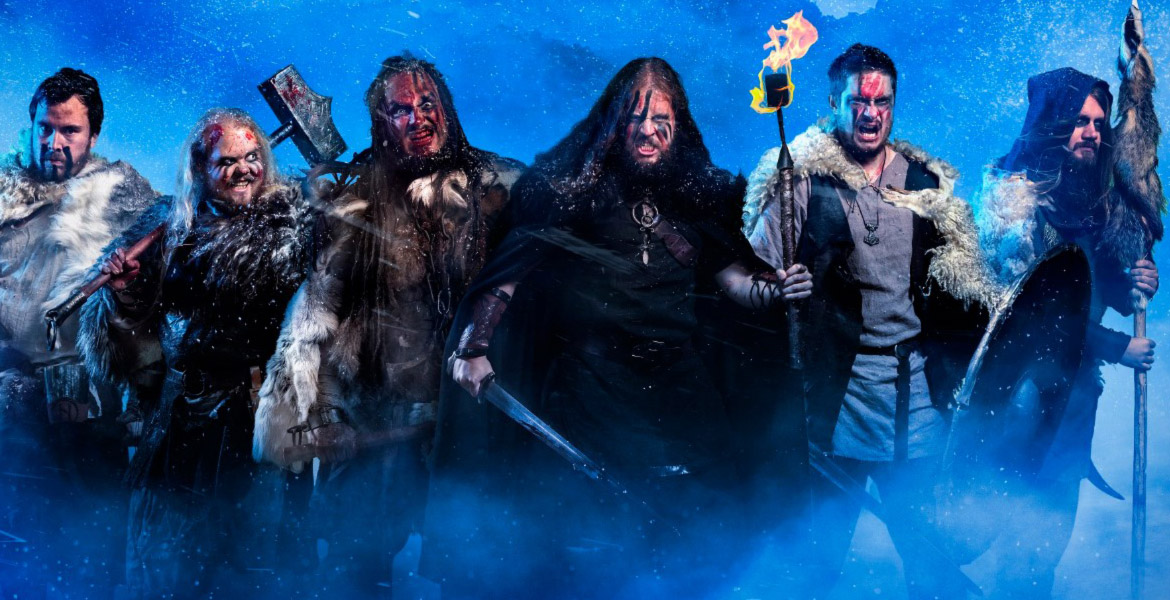
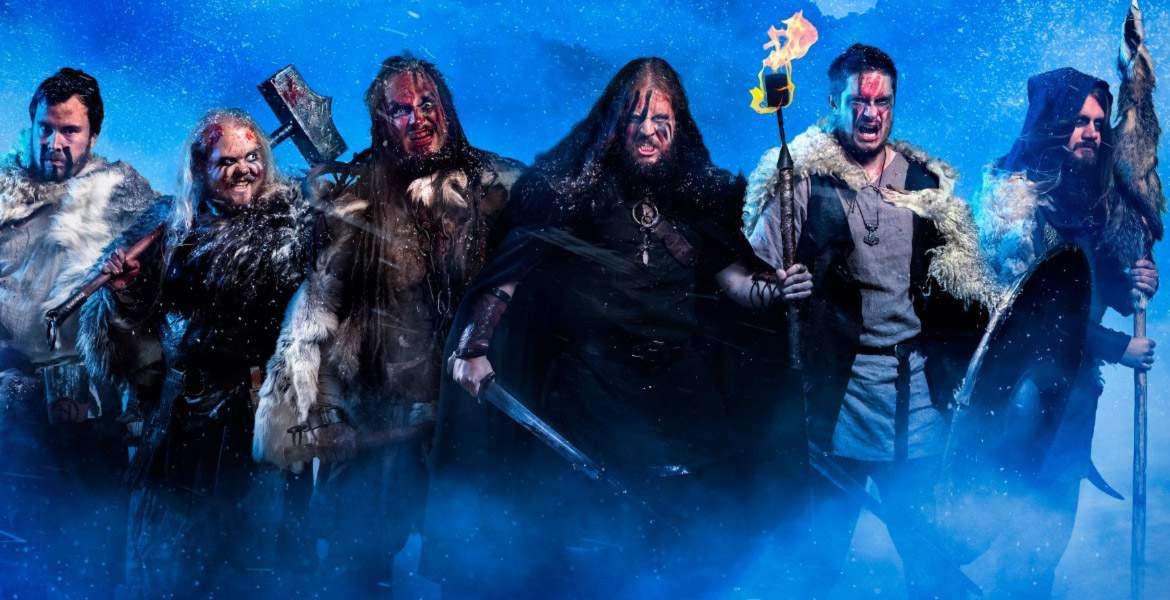
adjust amount in cart function

Changed region(s): [[0.6154, 0.03, 0.7077, 0.21], [0.2769, 0.27, 0.3077, 0.33], [0.2154, 0.12, 0.2462, 0.15]]

diff --git a/src/App.js b/src/App.js
@@ -4,18 +4,17 @@ import Header from "./components/header/Header";
 import Main from "./components/main/Main";
 
 function App() {
-    const [count, setCount] = useState(0);
     const [items, setItems] = useState([]);
     
     localStorage.setItem('items', JSON.stringify(items));
     
     const storeItems = (id, name, price) => {
-        let items = JSON.parse(localStorage.getItem('items'));
+        let itemsList = JSON.parse(localStorage.getItem('items'));
         
         function checkId(id) {
-            let items = JSON.parse(localStorage.getItem('items'));
+            let itemsList = JSON.parse(localStorage.getItem('items'));
             let exist = false;
-            items.forEach(item => {
+            itemsList.forEach(item => {
                 if (item.id === id) {
                     exist = true;
                     return exist
@@ -24,42 +23,68 @@ function App() {
             return exist;
         }
 
-        console.log(checkId(id));
-        console.log(items);
         
         if (checkId(id)) {
-            items.forEach(i => {
+            itemsList.forEach(i => {
                 if (i.id === id) {
                     i.quantity += 1;
                 }
             }) 
         } else {
-            items.push({
+            itemsList.push({
                 id, 
                 name,
                 price,
                 quantity: 1,
             })
         }
-        
-        setItems(items);
-        setCount(prev => prev + 1);
-        localStorage.setItem('items', JSON.stringify(items));
+        setItems(itemsList);
+        localStorage.setItem('items', JSON.stringify(itemsList));
+        console.log(checkId(id));
+        console.log(itemsList);
     }
-
+    
     const deleteFunc = () => {
         localStorage.removeItem('items');
         setItems([]);
     }
 
+    const add = (id) => {
+        const itemsList = JSON.parse(localStorage.getItem('items'));
+        itemsList.forEach(i => {
+            if (i.id === id) {
+                i.quantity++   
+            }
+        });
+        setItems(itemsList);
+        localStorage.setItem('items', JSON.stringify(itemsList));
+    }
+
+    const sub = (id) => {
+        const itemsList = JSON.parse(localStorage.getItem('items'));
+        itemsList.forEach(i => {
+            if (i.id === id) {
+                if (i.quantity > 0) {
+                    i.quantity-- 
+                } else {
+                    const pos = itemsList.indexOf(i);
+                    itemsList.splice(0, pos);
+                }    
+            }
+        });
+        setItems(itemsList);
+        localStorage.setItem('items', JSON.stringify(itemsList));
+    }
+
     return (
         <>
             <Header 
-                count={count}
-                deleteFunc={deleteFunc}
+                deleteFunc  = {deleteFunc}
+                add         = {add}
+                sub         = {sub}
             />
             <Main 
-                store={storeItems}
+                store       = {storeItems}
             />
             <Footer />
         </>
@@ -67,4 +92,5 @@ function App() {
 }
 
 export default App;
+
 

diff --git a/src/components/header/Cart/Cart.jsx b/src/components/header/Cart/Cart.jsx
@@ -1,0 +1,50 @@
+import PurchaseList from './PurchaseList';
+
+const Cart = ({ add, sub, deleteFunc }) => {
+    const cartIcon = 
+        <svg xmlns="http://www.w3.org/2000/svg" width="16" height="16" fill="currentColor" className="bi bi-cart" viewBox="0 0 16 16">
+            <path d="M0 1.5A.5.5 0 0 1 .5 1H2a.5.5 0 0 1 .485.379L2.89 3H14.5a.5.5 0 0 1 .491.592l-1.5 8A.5.5 0 0 1 13 12H4a.5.5 0 0 1-.491-.408L2.01 3.607 1.61 2H.5a.5.5 0 0 1-.5-.5zM3.102 4l1.313 7h8.17l1.313-7H3.102zM5 12a2 2 0 1 0 0 4 2 2 0 0 0 0-4zm7 0a2 2 0 1 0 0 4 2 2 0 0 0 0-4zm-7 1a1 1 0 1 1 0 2 1 1 0 0 1 0-2zm7 0a1 1 0 1 1 0 2 1 1 0 0 1 0-2z"/>
+        </svg>
+
+    const itemsList = JSON.parse(localStorage.getItem('items'));
+    let total = 0; 
+    itemsList.forEach(i => {
+        total += i.quantity;   
+    })
+       
+    function getPrice(){
+        if(itemsList.length > 0) {
+            let price = 0;
+            itemsList.map(i => price += i.price * i.quantity);
+            return price;
+        }
+        return 0;
+    }
+    const totalPrice = getPrice();
+
+    return (
+        <div className="dropdown">
+            <button className="btn btn-secondary dropdown-toggle" type="button" data-bs-auto-close="outside" data-bs-toggle="dropdown" aria-expanded="false">
+                {cartIcon} <span id="productsInCart">{total === 0 ? "" : total}</span>
+            </button>
+            <ul id="purchaseList" className="dropdown-menu">
+                {itemsList.map(i => 
+                    <PurchaseList key = {i.id}
+                        quantity  = {i.quantity}
+                        id        = {i.id}
+                        name      = {i.name}
+                        price     = {i.price * i.quantity}
+                        add       = {add}
+                        sub       = {sub}
+                    />
+                )}
+                <hr/> 
+                <li className='d-flex justify-content-end pe-3'><b>Total: {totalPrice}€</b></li>
+                <hr/> 
+                <li className="d-flex justify-content-center"><button className='btn btn-danger' onClick={deleteFunc}>Empty cart</button></li>
+            </ul>
+        </div>
+    )
+}
+
+export default Cart

diff --git a/src/components/header/NavBar.jsx b/src/components/header/NavBar.jsx
@@ -1,9 +1,9 @@
 import React from 'react';
-import Cart from './Cart';
+import Cart from './Cart/Cart';
 import SearchBar from './SearchBar';
 import logo from '../../assets/img/logo.svg';
 
-const NavBar = ({ count, deleteFunc }) => {
+const NavBar = ({ add, sub, deleteFunc }) => {
     const navGrid = {
         height: "54px",
         display: "grid",
@@ -17,9 +17,9 @@ const NavBar = ({ count, deleteFunc }) => {
                 <a className="navbar-brand" href="./index.js"><img src={logo} alt="logo" /></a>
                 <SearchBar />
                 <Cart 
-                    count={count}
-                    deleteFunc={deleteFunc} 
-                    // items={items}
+                    deleteFunc  = {deleteFunc} 
+                    add         = {add}
+                    sub         = {sub}
                 />           
             </div> 
         </nav>

diff --git a/src/components/header/Cart/PurchaseList.jsx b/src/components/header/Cart/PurchaseList.jsx
@@ -1,0 +1,25 @@
+const PurchaseList = ({ add, sub, quantity, id, name, price }) => {
+    const style = {
+        display: "flex",
+        fontSize: "14px",
+    }
+    const btnStyle = {
+        border: "none",
+        padding: "0 5px",
+        color: "white",
+        height: "20px",
+        fontSize: "13px",
+        borderRadius: "5px",
+        width: "20px",
+        backgroundColor: "rgba(56, 57, 65, .6)",
+        cursor: "pointer",  
+    }
+
+    return (
+        <li className="p-3 pt-1 dropdown-item-text" style={style}>
+            <span><button onClick={()=>sub(id)} style={btnStyle}>-</button> {quantity} u. <button onClick={()=>add(id)} style={btnStyle}>+</button> {name} - {price}€</span>
+        </li>
+    )
+}
+
+export default PurchaseList

diff --git a/src/components/header/Header.jsx b/src/components/header/Header.jsx
@@ -2,7 +2,7 @@ import React from 'react'
 import Hero from './Hero';
 import NavBar from './NavBar';
 
-const Header = ({ count, deleteFunc }) => {
+const Header = ({ add, sub, deleteFunc }) => {
     const style = {
         gridColumn: "1 / span 3",
         boxShadow: "0 1px 5px rgba(0, 0, 0, .7)"
@@ -11,9 +11,9 @@ const Header = ({ count, deleteFunc }) => {
     return (
         <header style={style}>
             <NavBar 
-                count={count} 
-                deleteFunc={deleteFunc}
-                // items={items}
+                deleteFunc  = {deleteFunc}
+                add         = {add}
+                sub         = {sub}
             />
             <Hero />
         </header>

diff --git a/src/components/header/Hero.jsx b/src/components/header/Hero.jsx
@@ -8,7 +8,7 @@ const Hero = () => {
     const photoStyle  = {
         maxHeight: "210px",
         objectFit: "cover",
-        objectPosition: "50% 67%"
+        objectPosition: "50% 64%"
     }
     const label = {
         fontSize: "3em",
